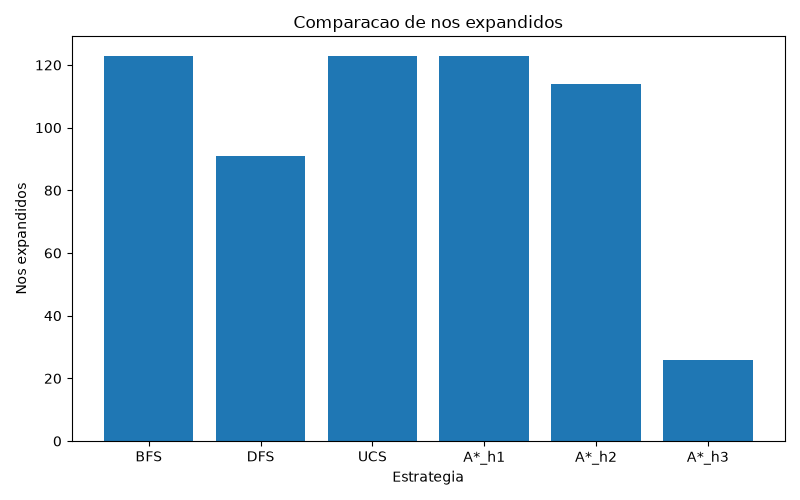
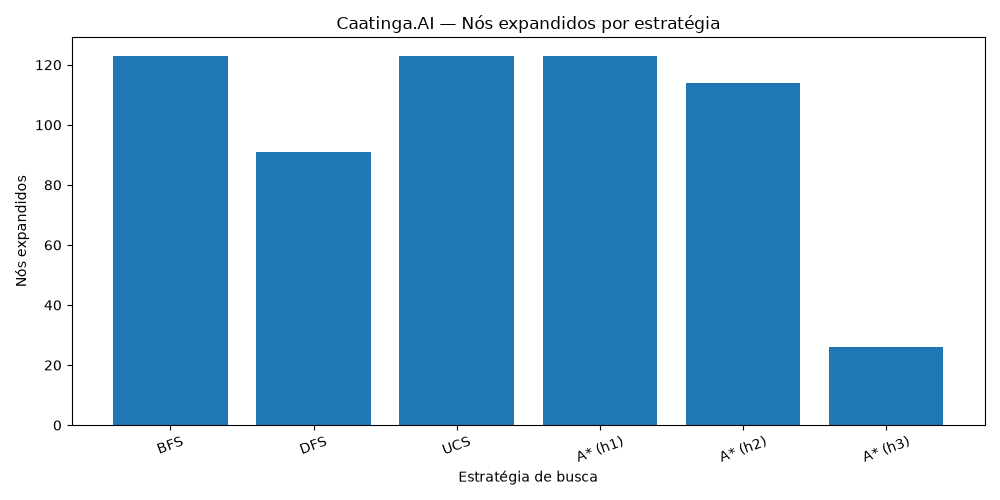
Atualiza README e ajusta main.py com geração dos resultados

Changed region(s): [[0.0, 0.03, 1.0, 0.99]]

diff --git a/src/main.py b/src/main.py
@@ -1,64 +1,99 @@
+
+"""Execução principal do Caatinga.AI."""
+
 import csv
 import sys
+import time
 from pathlib import Path
 
 from gerador_pomar import gerar_pomar
 from buscas import bfs, dfs, ucs, a_estrela
 
 
-def salvar_pomar(pomar, caminho):
-    with open(caminho, "w", encoding="utf-8") as arquivo:
+RAIZ = Path(__file__).resolve().parents[1]
+PASTA_RESULTADOS = RAIZ / "resultados"
+
+
+def salvar_pomar(matricula, pomar):
+    caminho = PASTA_RESULTADOS / "pomar.txt"
+
+    with caminho.open("w", encoding="utf-8") as arquivo:
+        arquivo.write(f"Matricula-semente: {matricula}\n")
+
         for linha in pomar:
             arquivo.write(" ".join(linha) + "\n")
 
 
-def salvar_resultados(resultados, caminho):
-    with open(caminho, "w", newline="", encoding="utf-8") as arquivo:
-        campos = [
-            "estrategia",
-            "custo",
-            "passos",
-            "nos_expandidos",
-            "fronteira_max",
-        ]
+def salvar_resultados(resultados):
+    caminho = PASTA_RESULTADOS / "resultados.csv"
 
-        escritor = csv.DictWriter(arquivo, fieldnames=campos)
-        escritor.writeheader()
-
-        for estrategia, resultado in resultados.items():
-            escritor.writerow({
-                "estrategia": estrategia,
-                "custo": resultado["custo"],
-                "passos": resultado["passos"],
-                "nos_expandidos": resultado["nos_expandidos"],
-                "fronteira_max": resultado["fronteira_max"],
-            })
-
-
-def gerar_grafico(resultados, caminho):
-    try:
-        import matplotlib.pyplot as plt
-    except ImportError:
-        print(
-            "ERRO: matplotlib nao esta instalado. "
-            "Execute: pip install matplotlib"
-        )
-        sys.exit(1)
-
-    estrategias = list(resultados.keys())
-    expandidos = [
-        resultados[nome]["nos_expandidos"]
-        for nome in estrategias
+    campos = [
+        "estrategia",
+        "heuristica",
+        "custo",
+        "passos",
+        "nos_expandidos",
+        "fronteira_max",
+        "tempo_ms",
     ]
 
-    plt.figure(figsize=(8, 5))
-    plt.bar(estrategias, expandidos)
-    plt.xlabel("Estrategia")
-    plt.ylabel("Nos expandidos")
-    plt.title("Comparacao de nos expandidos")
+    with caminho.open(
+        "w", newline="", encoding="utf-8"
+    ) as arquivo:
+        escritor = csv.DictWriter(
+            arquivo, fieldnames=campos
+        )
+
+        escritor.writeheader()
+        escritor.writerows(resultados)
+
+
+def gerar_grafico(resultados):
+    import matplotlib.pyplot as plt
+
+    nomes = [
+        linha["estrategia"]
+        + (
+            f" ({linha['heuristica']})"
+            if linha["heuristica"]
+            else ""
+        )
+        for linha in resultados
+    ]
+
+    expandidos = [
+        linha["nos_expandidos"]
+        for linha in resultados
+    ]
+
+    plt.figure(figsize=(10, 5))
+    plt.bar(nomes, expandidos)
+    plt.xlabel("Estratégia de busca")
+    plt.ylabel("Nós expandidos")
+    plt.title("Caatinga.AI — Nós expandidos por estratégia")
+    plt.xticks(rotation=20)
     plt.tight_layout()
-    plt.savefig(caminho)
+
+    plt.savefig(PASTA_RESULTADOS / "grafico.png")
     plt.close()
+
+
+def executar_busca(nome, heuristica, funcao):
+    inicio = time.perf_counter()
+    resultado = funcao()
+    tempo_ms = (time.perf_counter() - inicio) * 1000
+
+    linha = {
+        "estrategia": nome,
+        "heuristica": heuristica,
+        "custo": resultado["custo"],
+        "passos": resultado["passos"],
+        "nos_expandidos": resultado["nos_expandidos"],
+        "fronteira_max": resultado["fronteira_max"],
+        "tempo_ms": round(tempo_ms, 4),
+    }
+
+    return linha
 
 
 def main():
@@ -69,60 +104,51 @@ def main():
     try:
         matricula = int(sys.argv[1])
     except ValueError:
-        print("ERRO: a matricula deve conter apenas numeros.")
+        print("ERRO: informe uma matrícula numérica.")
         sys.exit(1)
 
-    print(f"Matricula: {matricula}")
-    print("Gerando pomar...")
-
     pomar = gerar_pomar(matricula)
+    PASTA_RESULTADOS.mkdir(parents=True, exist_ok=True)
 
-    print("Executando buscas...")
+    resultados = [
+        executar_busca("BFS", "", lambda: bfs(pomar)),
+        executar_busca("DFS", "", lambda: dfs(pomar)),
+        executar_busca("UCS", "", lambda: ucs(pomar)),
+        executar_busca(
+            "A*", "h1", lambda: a_estrela(pomar, "h1")
+        ),
+        executar_busca(
+            "A*", "h2", lambda: a_estrela(pomar, "h2")
+        ),
+        executar_busca(
+            "A*", "h3", lambda: a_estrela(pomar, "h3")
+        ),
+    ]
 
-    resultados = {
-        "BFS": bfs(pomar),
-        "DFS": dfs(pomar),
-        "UCS": ucs(pomar),
-        "A*_h1": a_estrela(pomar, "h1"),
-        "A*_h2": a_estrela(pomar, "h2"),
-        "A*_h3": a_estrela(pomar, "h3"),
-    }
+    salvar_pomar(matricula, pomar)
+    salvar_resultados(resultados)
+    gerar_grafico(resultados)
 
-    pasta_resultados = Path("resultados")
-    pasta_resultados.mkdir(exist_ok=True)
+    print(f"Matricula-semente: {matricula}")
+    print("\n=== RESULTADOS ===")
 
-    salvar_pomar(
-        pomar,
-        pasta_resultados / "pomar.txt"
-    )
+    for linha in resultados:
+        nome = linha["estrategia"]
+        if linha["heuristica"]:
+            nome += f" {linha['heuristica']}"
 
-    salvar_resultados(
-        resultados,
-        pasta_resultados / "resultados.csv"
-    )
-
-    gerar_grafico(
-        resultados,
-        pasta_resultados / "grafico.png"
-    )
-
-    print()
-    print("=== RESULTADOS ===")
-
-    for estrategia, resultado in resultados.items():
         print(
-            f"{estrategia}: "
-            f"custo={resultado['custo']}, "
-            f"passos={resultado['passos']}, "
-            f"expandidos={resultado['nos_expandidos']}, "
-            f"fronteira={resultado['fronteira_max']}"
+            f"{nome}: custo={linha['custo']}, "
+            f"passos={linha['passos']}, "
+            f"expandidos={linha['nos_expandidos']}, "
+            f"fronteira={linha['fronteira_max']}, "
+            f"tempo={linha['tempo_ms']:.4f} ms"
         )
 
-    print()
-    print("Arquivos gerados:")
-    print("resultados/resultados.csv")
-    print("resultados/grafico.png")
-    print("resultados/pomar.txt")
+    print("\nArquivos gerados em resultados/:")
+    print("resultados.csv")
+    print("grafico.png")
+    print("pomar.txt")
 
 
 if __name__ == "__main__":

diff --git a/README.md b/README.md
@@ -1,18 +1,74 @@
+
 # Caatinga.AI — Sprint 1
 
-Projeto desenvolvido para a Sprint 1 da disciplina de Inteligência Artificial.
+## 1. Identificação
 
-## Integrantes
+**Disciplina:** Inteligência Artificial — UniRios, 2026.2  
+**Professor:** Ronierison Maciel
 
+**Integrantes:**
 - Willams Junior — Matrícula: 241.14.025
 - Igor Rodrigues — Matrícula: 241.14.019
 
-## Requisitos
+**Matrícula-semente:** `24114019` (integrante mais velho da dupla).
 
-- Python 3
-- matplotlib
+## 2. Sobre o projeto
 
-Para instalar as dependências:
+O Caatinga.AI simula um agente que percorre um pomar de manga para apoiar a inspeção de pragas. O projeto compara estratégias de busca de rotas (BFS, DFS, UCS e A*), implementa busca local para selecionar talhões de inspeção e utiliza regras e o teorema de Bayes para apoiar decisões sobre alertas do sensor.
+
+## 3. Como executar
+
+**Requisitos:** Python 3 e as dependências listadas em `requirements.txt`.
+
+Na raiz do projeto, execute:
 
 ```bash
 pip install -r requirements.txt
+python src/main.py 24114019
+```
+
+O programa deve gerar os arquivos `resultados/resultados.csv`, `resultados/grafico.png` e `resultados/pomar.txt`.
+
+Para testar com outra matrícula, substitua `24114019` no comando.
+
+## 4. Resumo dos resultados
+
+Resultados obtidos com a matrícula-semente `24114019` no pomar 12 × 12:
+
+| Estratégia | Heurística | Custo da rota | Passos | Nós expandidos | Fronteira máxima |
+|---|---|---:|---:|---:|---:|
+| BFS | — | 52 | 22 | 123 | 12 |
+| DFS | — | 109 | 46 | 91 | 44 |
+| UCS | — | 37 | 22 | 123 | 18 |
+| A* | h1 = 0 | 37 | 22 | 123 | 18 |
+| A* | h2 = Manhattan | 37 | 22 | 114 | 24 |
+| A* | h3 = 4 × Manhattan | 42 | 24 | 26 | 28 |
+
+## 5. Ordem dos vizinhos e reabertura de estados
+
+**Ordem de expansão dos vizinhos:** Norte, Sul, Oeste e Leste.
+
+Na DFS, os vizinhos são empilhados na ordem inversa para preservar essa ordem de exploração.
+
+A implementação do A* permite reabrir um estado quando encontra um caminho de custo menor.
+
+## 6. Estrutura do repositório
+
+- [`README.md`](README.md): identificação, instruções de execução e resumo dos resultados.
+- [`RELATORIO.md`](RELATORIO.md): respostas das partes teóricas e análise dos experimentos.
+- [`ANEXO_IA.md`](ANEXO_IA.md): registro do uso de assistentes de IA.
+- [`requirements.txt`](requirements.txt): dependências do projeto.
+- [`src/gerador_pomar.py`](src/gerador_pomar.py): geração do pomar e dos parâmetros do sensor.
+- [`src/buscas.py`](src/buscas.py): BFS, DFS, UCS e A*.
+- [`src/busca_local.py`](src/busca_local.py): subida de encosta e têmpera simulada.
+- [`src/especialista.py`](src/especialista.py): base de regras e encadeamento para trás.
+- [`src/bayes.py`](src/bayes.py): cálculos de probabilidade da Parte 4.3.
+- [`src/main.py`](src/main.py): execução principal e geração dos arquivos de resultados.
+- [`resultados/resultados.csv`](resultados/resultados.csv): indicadores das estratégias de busca.
+- [`resultados/grafico.png`](resultados/grafico.png): gráfico de nós expandidos por estratégia.
+- [`resultados/pomar.txt`](resultados/pomar.txt): grade do pomar.
+
+## 7. Limitações conhecidas
+
+- A busca local utiliza prioridades simuladas e uma função de cobertura definida pela dupla. Ela não calcula a rota entre os 15 talhões nem comprova que as inspeções cabem em seis horas de bateria.
+- Na questão 2.4, o UCS foi interrompido preventivamente em um pomar 2800 × 2800 após ultrapassar o limite experimental de 1,50 GiB de memória. Não foi observado estouro natural de memória, estouro de pilha ou tempo de execução comprovadamente superior a 60 segundos.
